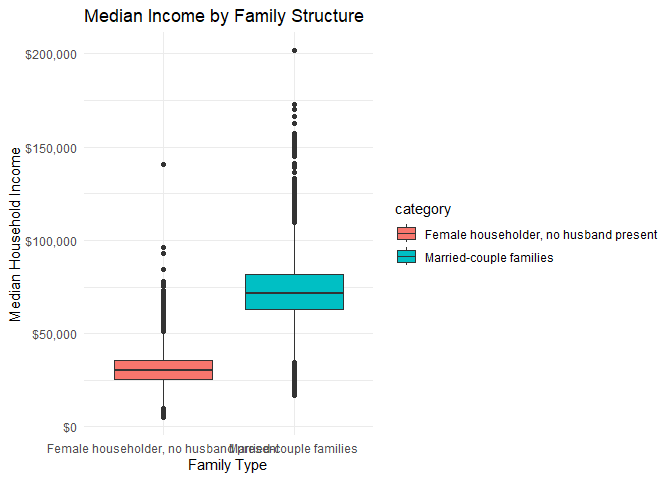
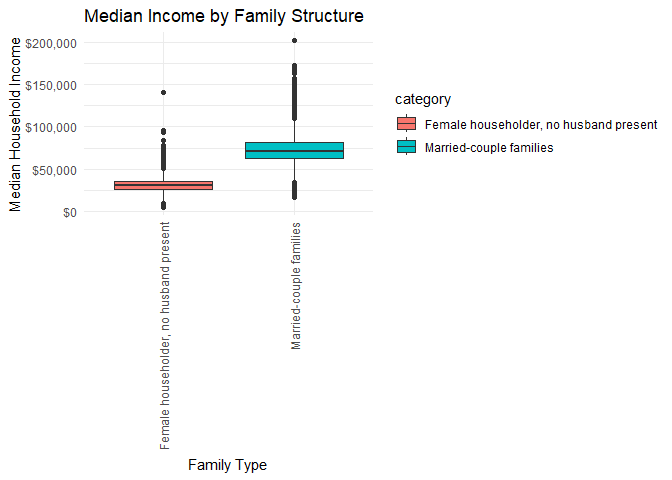
revision c09

diff --git a/challenges/c09-income-assignment.md b/challenges/c09-income-assignment.md
@@ -331,13 +331,12 @@ $$\text{MOE} = 1.645 \times \text{SE}.$$
 ### **q4** Convert the margin of error to standard error. Additionally, compute a 99% confidence interval on income, and normalize the standard error to `income_CV = income_SE / income_estimate`. Provide these columns with the names `income_SE, income_lo, income_hi, income_CV`.
 
 ``` r
-df_q4 <- df_q3 %>%
+df_q4 <- df_q3 %>% 
   mutate(
-    income_SE = income_moe / 1.645,
-    #for 99% 2.576 
-    income_lo = income_estimate - 2.576*income_SE,
-    income_hi = income_estimate + 2.576*income_SE,
-    income_CV = income_SE / income_estimate
+    income_SE  = income_moe / 1.645,               
+    income_lo  = income_estimate - 2.576 * income_SE, 
+    income_hi  = income_estimate + 2.576 * income_SE, 
+    income_CV  = income_SE / income_estimate          
   )
 ```
 
@@ -507,12 +506,23 @@ and uncertainty.
 (e.g. variance) and sample size.
 
 ``` r
-ggplot(df_data, aes(x = population, y = income_SE, color = category)) +
+# ggplot(df_data, aes(x = population, y = income_SE, color = category)) +
+#   geom_point(alpha = 0.7, size = 2) +
+#   labs(
+#     title = "Standard Error vs. Population",
+#     x = "Population",
+#     y = "Standard Error",
+#     color = "Family Size"
+#   ) +
+#   theme_minimal()
+df_data %>% 
+  ggplot(aes(population, income_SE, color = category)) +
   geom_point(alpha = 0.7, size = 2) +
+  scale_x_log10(labels = scales::comma) +          # log scale for population
   labs(
     title = "Standard Error vs. Population",
-    x = "Population",
-    y = "Standard Error",
+    x     = "Population (log scale)",
+    y     = "Standard Error",
     color = "Family Size"
   ) +
   theme_minimal()
@@ -527,10 +537,12 @@ ggplot(df_data, aes(x = population, y = income_SE, color = category)) +
 
 - What *overall* trend do you see between `SE` and population? Why might
   this trend exist?
-  - As the population increases the standard error decreases.Larger
-    populations generally provide more data and sample size, which
-    reduces uncertainty in the estimate.Furthermore the standard error
-    is inversely related to sample size.
+  - As the population increases the standard error decreases.This may
+    occur as the data is taken by taking a rough constant proportion of
+    the targeted population which may results in larger populations
+    generally provide more data and sample size, which reduces
+    uncertainty in the estimate.Furthermore the standard error is
+    inversely related to sample size.
 - What does this *overall* trend tell you about the relative ease of
   studying small vs large counties?
   - Larger counties yield more precise estimates and lower Se, making
@@ -600,7 +612,8 @@ ggplot(df_q8, aes(x = category, y = income_estimate, fill = category)) +
     y = "Median Household Income"
   ) +
   scale_y_continuous(labels = scales::dollar) +
-  theme_minimal()
+  theme_minimal()+
+  theme(axis.text.x = element_text(angle = 90, vjust = 0.5, hjust=1)) 
 ```
 
     ## Warning: Removed 63 rows containing non-finite outside the scale range
